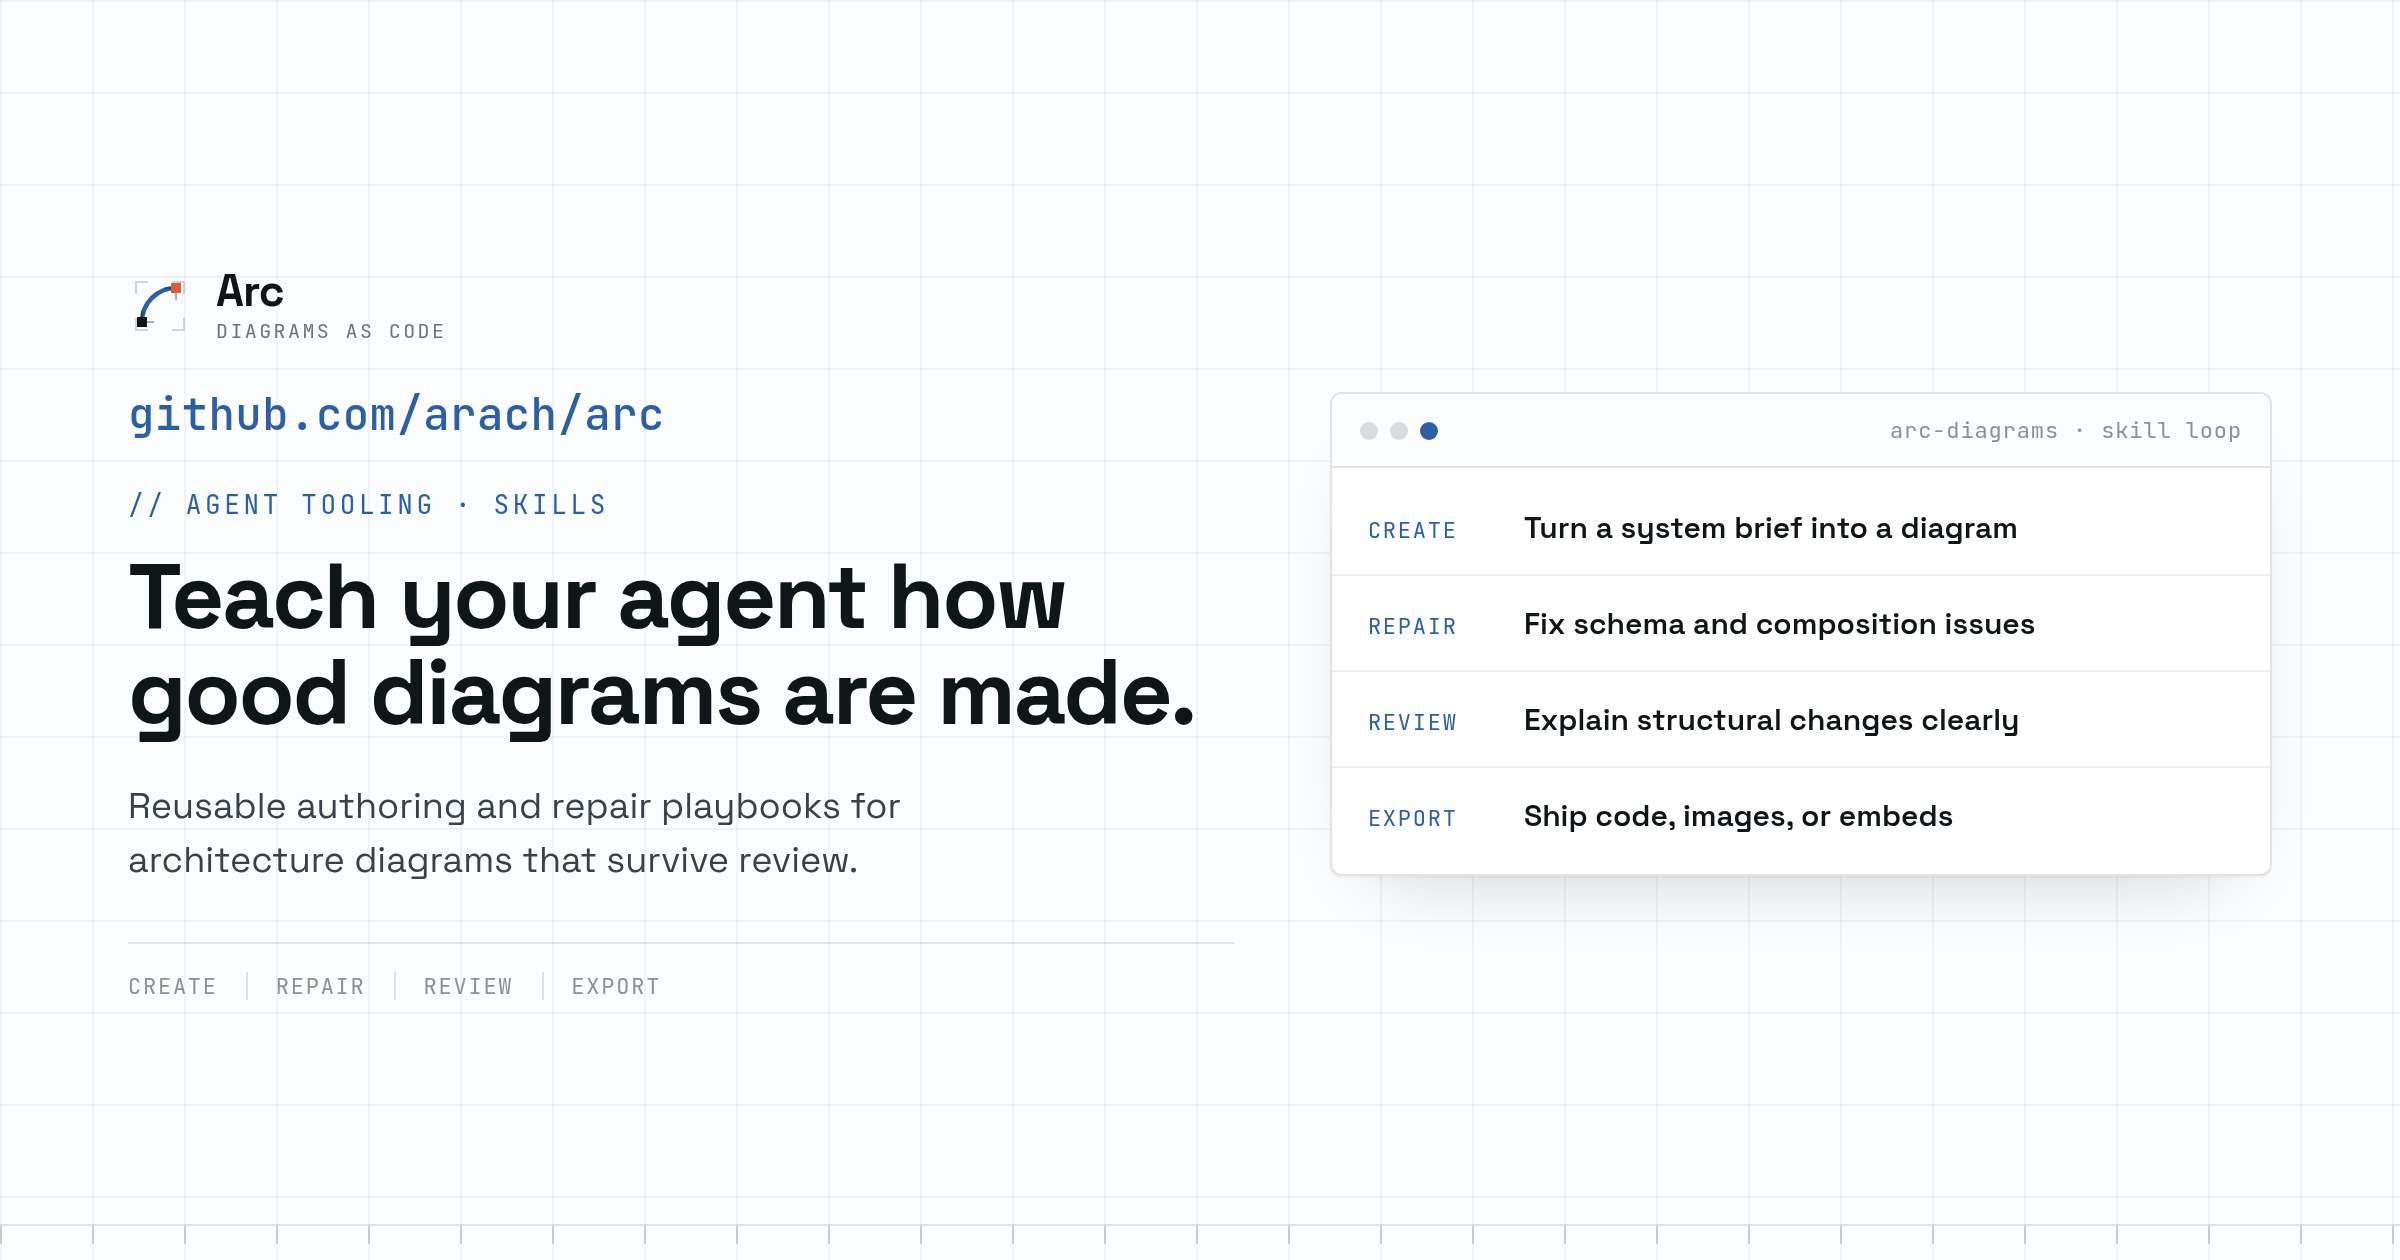
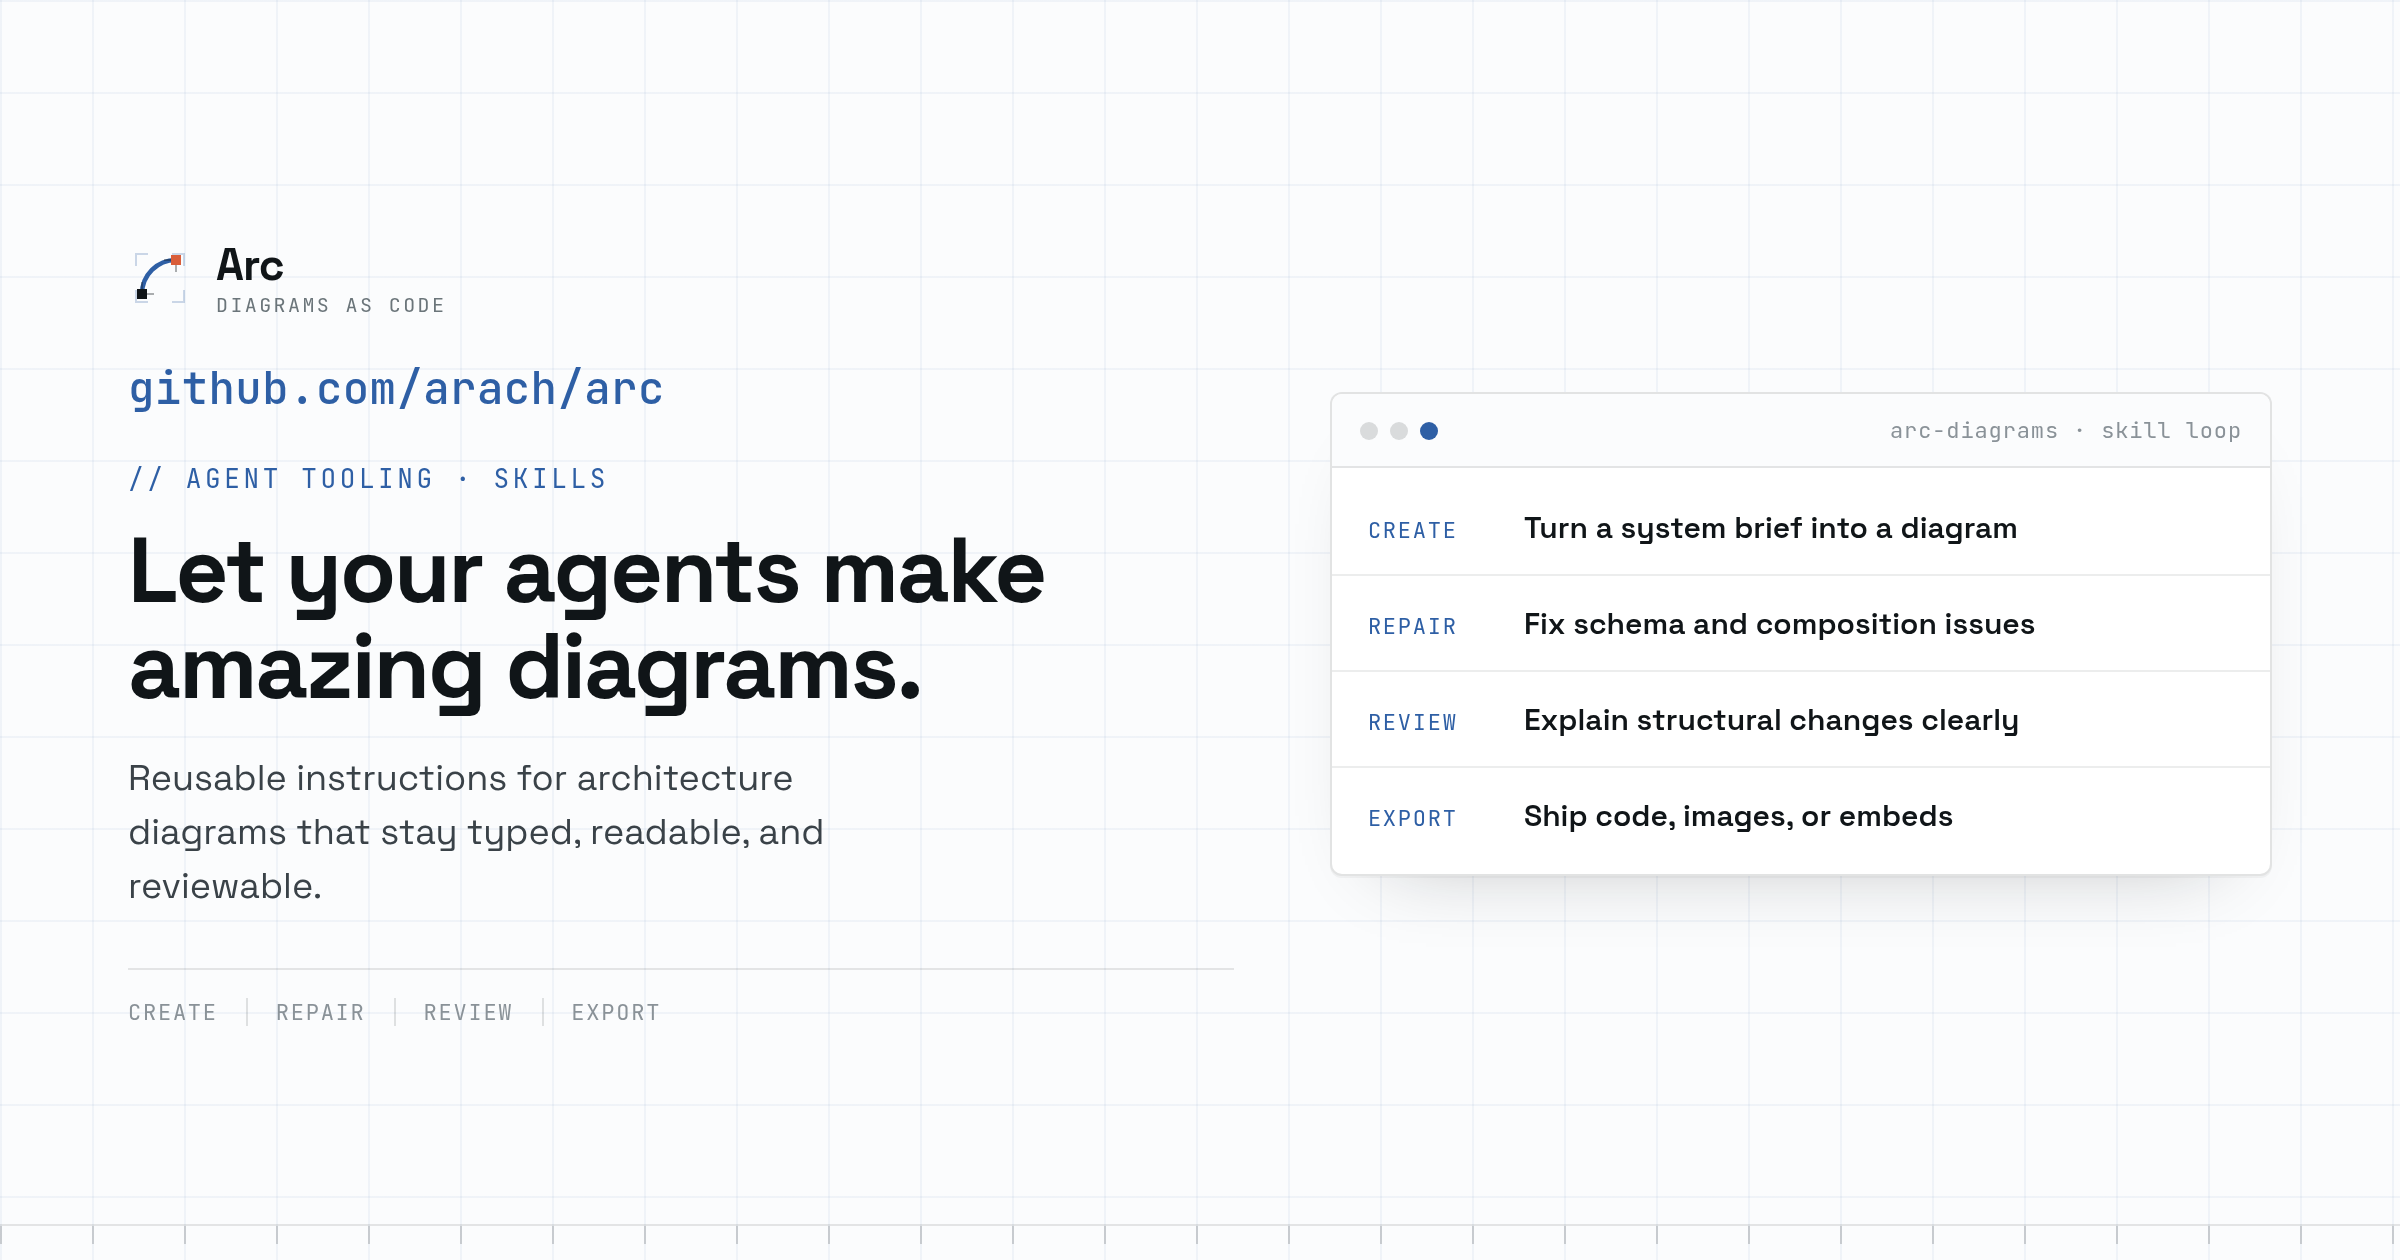
Put agent setup front and center

diff --git a/src/components/AgentSharePage.tsx b/src/components/AgentSharePage.tsx
@@ -26,7 +26,6 @@ interface SharePageConfig {
   lead: string
   metaTitle: string
   metaDescription: string
-  primaryLabel: string
   primaryCode: string
   docsHref: string
   docsLabel: string
@@ -48,9 +47,7 @@ const MCP_CONFIG: SharePageConfig = {
   lead: 'Arc MCP turns architecture work into a tool call: validate a diagram, lay it out, preview it, render production artifacts, and hand the result to the visual studio.',
   metaTitle: 'Arc MCP | Diagram tools for AI agents',
   metaDescription: 'Give AI agents tools to validate, lay out, diff, render, and hand off architecture diagrams.',
-  primaryLabel: 'Install and run',
-  primaryCode: `npm install -g @arach/arc
-arc-mcp`,
+  primaryCode: 'claude mcp add --scope project arc -- npx -y -p @arach/arc arc-mcp',
   docsHref: '/docs/agent-mcp',
   docsLabel: 'Read the MCP reference',
   outcomes: [
@@ -96,14 +93,11 @@ arc-mcp`,
 
 const SKILLS_CONFIG: SharePageConfig = {
   eyebrow: '// AGENT PLAYBOOKS · REUSABLE AUTHORING CONTRACT',
-  title: 'Teach your agent how good diagrams are made.',
-  lead: 'Arc Skills package the schema, composition rules, repair loop, and export workflow into reusable instructions your coding agent can apply inside any repository.',
+  title: 'Let your agents make amazing diagrams.',
+  lead: 'Reusable instructions for creating, repairing, and exporting architecture diagrams that stay typed, readable, and reviewable.',
   metaTitle: 'Arc Skills | Architecture diagram playbooks for agents',
   metaDescription: 'Reusable agent skills for creating, repairing, reviewing, and exporting architecture diagrams with Arc.',
-  primaryLabel: 'Install the diagram skill',
-  primaryCode: `mkdir -p .claude/skills/arc-diagrams
-curl -L https://raw.githubusercontent.com/arach/arc/main/skills/arc-diagrams/SKILL.md \\
-  -o .claude/skills/arc-diagrams/SKILL.md`,
+  primaryCode: 'npx skills add arach/arc --skill arc-diagrams',
   docsHref: '/docs/skills',
   docsLabel: 'Browse the skills reference',
   outcomes: [
@@ -255,6 +249,23 @@ export default function AgentSharePage({ kind }: { kind: SharePageKind }) {
             </div>
           </section>
 
+          <section className="asp-install asp-start" id="start">
+            <div>
+              <div className="asp-tag">// GETTING STARTED</div>
+              <h2>{kind === 'mcp' ? 'Add Arc MCP in one command.' : 'Add the skill in one command.'}</h2>
+              <p>{kind === 'mcp'
+                ? 'Connect it to Claude Code at project scope. Other clients are covered in the setup guide.'
+                : 'The open Skills installer finds your coding agents and puts the Arc playbook in the right place.'}</p>
+            </div>
+            <div className="asp-code">
+              <div className="asp-code-bar">
+                <span>terminal</span>
+                <CopyCode code={config.primaryCode} />
+              </div>
+              <pre><code>{config.primaryCode}</code></pre>
+            </div>
+          </section>
+
           <div className="asp-ruler" aria-hidden="true" />
 
           <section className="asp-section">
@@ -297,7 +308,7 @@ export default function AgentSharePage({ kind }: { kind: SharePageKind }) {
             </div>
           </section>
 
-          <section className="asp-section" id="start">
+          <section className="asp-section">
             <div className="asp-tag">// START IN THREE STEPS</div>
             <div className="asp-steps">
               {config.steps.map((step) => (
@@ -307,21 +318,6 @@ export default function AgentSharePage({ kind }: { kind: SharePageKind }) {
                   <p>{step.description}</p>
                 </article>
               ))}
-            </div>
-
-            <div className="asp-install">
-              <div>
-                <div className="asp-tag">// {config.primaryLabel.toUpperCase()}</div>
-                <h2>Copy, connect, create.</h2>
-                <p>The source remains ordinary JSON or TypeScript, so every output stays portable and reviewable.</p>
-              </div>
-              <div className="asp-code">
-                <div className="asp-code-bar">
-                  <span>terminal</span>
-                  <CopyCode code={config.primaryCode} />
-                </div>
-                <pre><code>{config.primaryCode}</code></pre>
-              </div>
             </div>
           </section>
 

diff --git a/scripts/generate-og.js b/scripts/generate-og.js
@@ -414,8 +414,8 @@ const mcpOGHtml = plate({
 
 const skillsOGHtml = plate({
   eyebrow: '// AGENT TOOLING · SKILLS',
-  title: 'Teach your agent how good diagrams are made.',
-  lead: 'Reusable authoring and repair playbooks for architecture diagrams that survive review.',
+  title: 'Let your agents make amazing diagrams.',
+  lead: 'Reusable instructions for architecture diagrams that stay typed, readable, and reviewable.',
   spec: ['CREATE', 'REPAIR', 'REVIEW', 'EXPORT'],
   right: skillsCard,
   compactTitle: true,

diff --git a/src/agent-share.css b/src/agent-share.css
@@ -267,6 +267,7 @@
   background: linear-gradient(135deg, rgba(46,95,165,0.07), rgba(255,255,255,0.82));
 }
 .asp-install h2 { margin-bottom: 14px; }
+.asp-start { margin: 0 0 58px; }
 .asp-code { overflow: hidden; border: 1px solid rgba(16,21,24,0.13); border-radius: 5px; background: #101518; color: #dfe6e9; }
 .asp-code-bar { border-bottom: 1px solid rgba(255,255,255,0.09); color: #819097; font: 10px 'JetBrains Mono', monospace; }
 .asp-copy {

diff --git a/docs/agent/mcp.agent.md b/docs/agent/mcp.agent.md
@@ -13,10 +13,24 @@ bun run mcp
 
 # published bin (after build:mcp)
 arc-mcp
-npx @arach/arc arc-mcp   # if invoked via package bin
+npx -y -p @arach/arc arc-mcp
 ```
 
 Build the bundled bin: `bun run build:mcp` → `bin/arc-mcp.mjs`
+
+## Add to an MCP client
+
+Claude Code, project scope:
+
+```bash
+claude mcp add --scope project arc -- npx -y -p @arach/arc arc-mcp
+```
+
+Devin CLI:
+
+```bash
+devin mcp add arc -- npx -y -p @arach/arc arc-mcp
+```
 
 ## Cursor / Claude Desktop Config
 

diff --git a/docs/skill.md b/docs/skill.md
@@ -95,7 +95,16 @@ export const systemArchitecture: ArcDiagramData = {
 
 ## Installing Skills
 
-### Claude Code / Cursor
+Install Arc's diagram skill with the open Skills CLI:
+
+```bash
+npx skills add arach/arc --skill arc-diagrams
+```
+
+The installer detects supported coding agents and places the skill in their
+expected project directories.
+
+### Manual setup
 
 Point agents at:
 - `CLAUDE.md` — full contributor context
